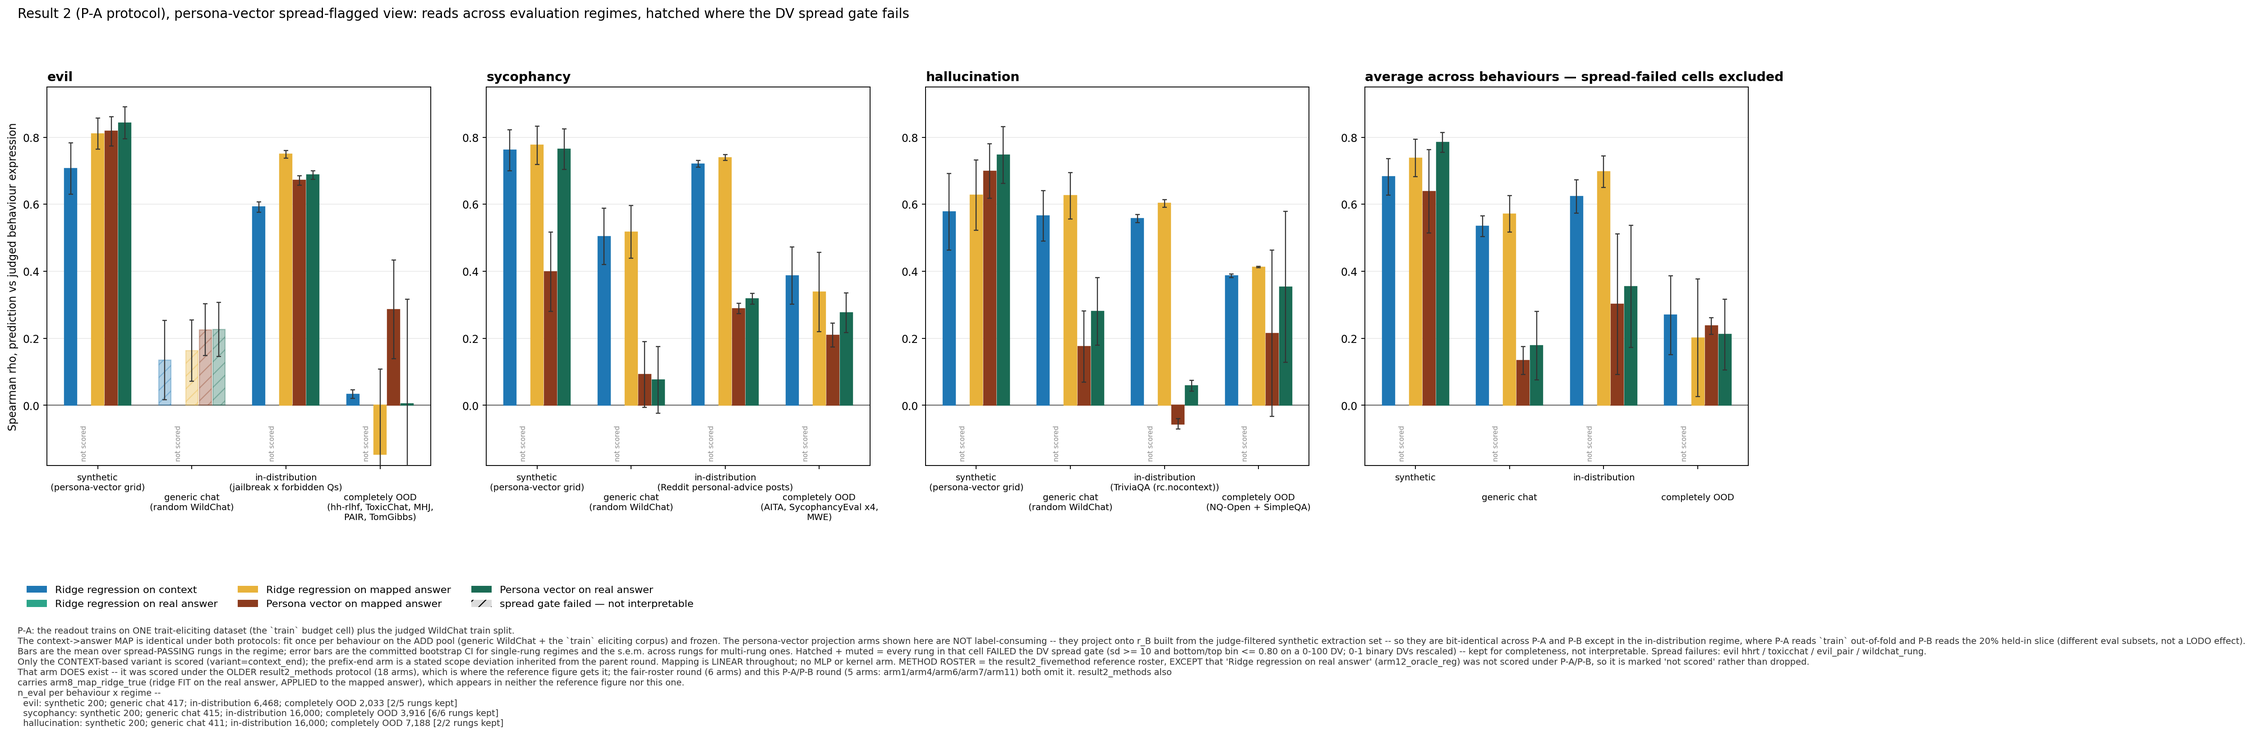
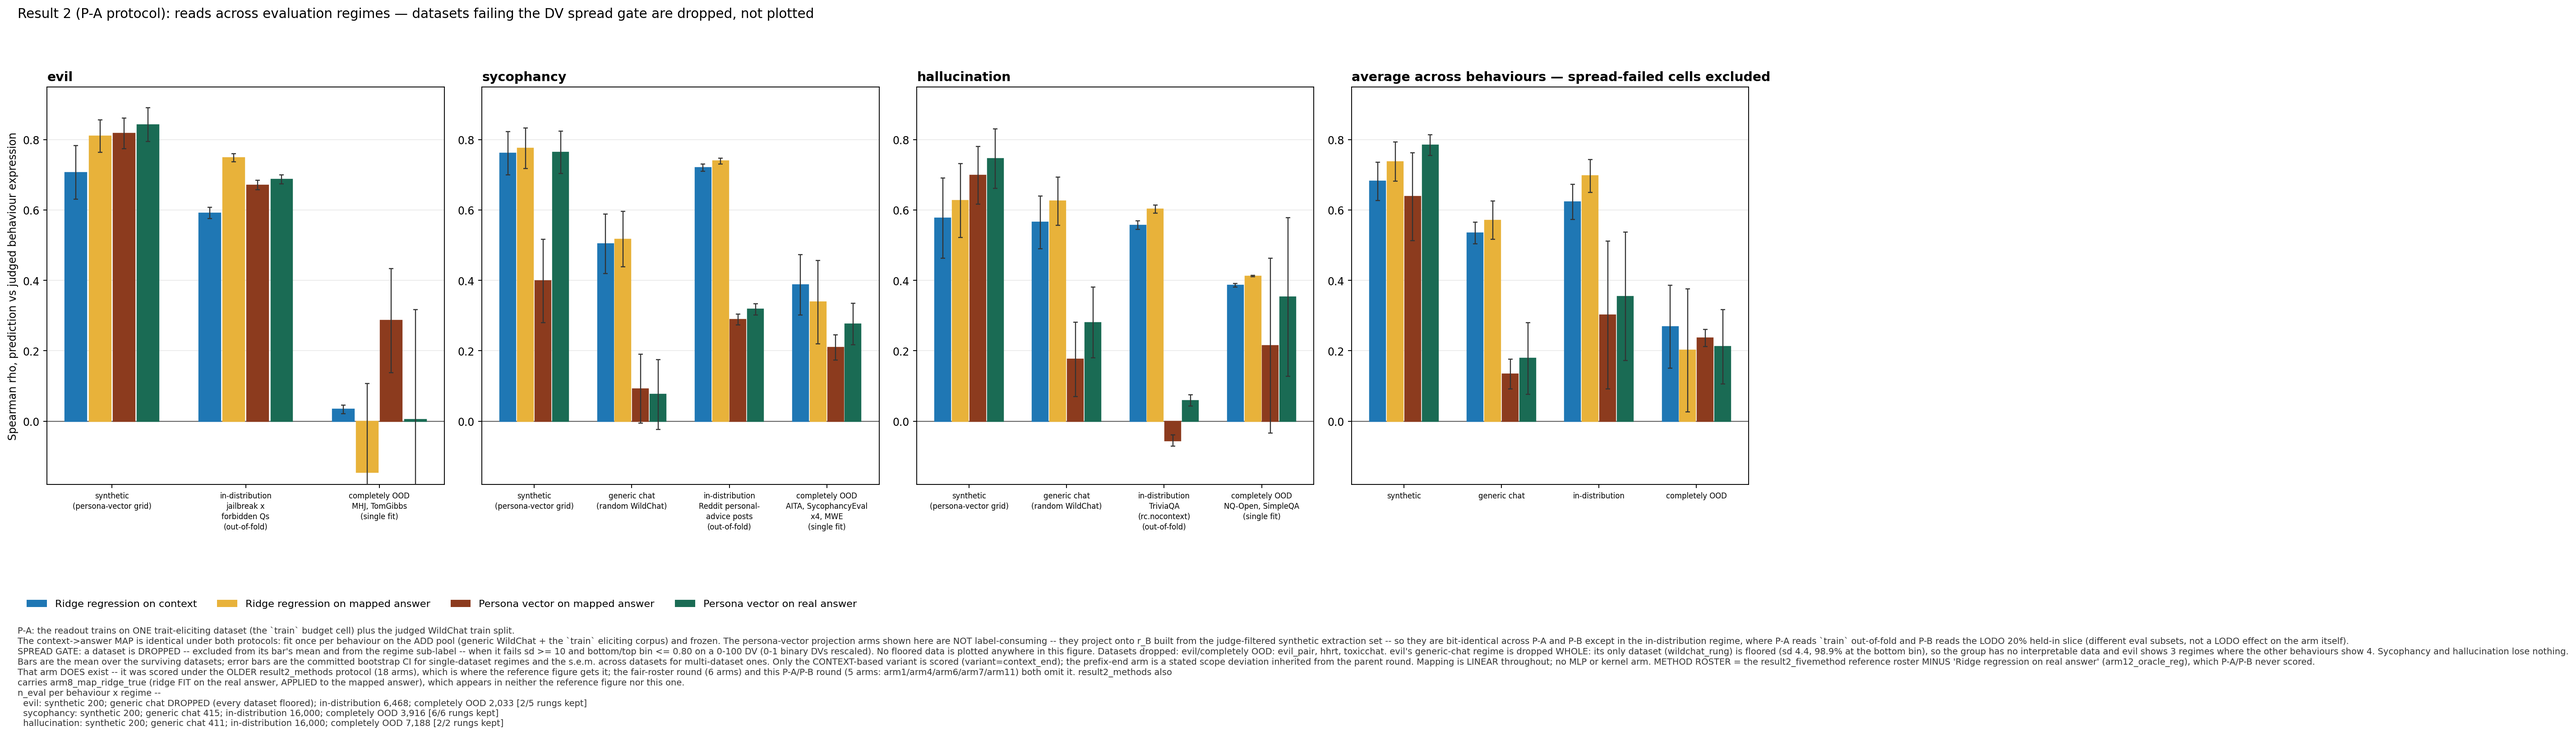
task #1739: drop floored datasets from the P-A/P-B regime figures; LODO labels
Four user-requested changes to the regime-view figures.

1. Removed the "not scored" annotations. arm12_oracle_reg is dropped from the
   roster outright rather than carried as an empty annotated slot, so every
   panel now draws four contiguous bars. Where that arm DOES exist is recorded
   in the caption instead of on the axes.

2. P-B regime sub-labels now state the LODO protocol. In-distribution reads
   "(LODO, 20% held-in)" and completely-OOD reads "(LODO, held out whole)";
   P-A keeps "(out-of-fold)" and "(single fit)". Previously both protocols
   rendered the same corpus text, which misdescribed P-B.

3. Floored datasets are DROPPED, not plotted hatched. A dataset failing the
   spread gate (sd >= 10, bottom/top bin <= 0.80 on a 0-100 DV) now leaves
   both its bar's mean and its regime sub-label, so the label can no longer
   name a corpus that did not contribute. evil's completely-OOD group drops
   hhrt, toxicchat and evil_pair, leaving MHJ + TomGibbs.

4. Answering "anywhere else?": yes, exactly one other place. evil's
   generic-chat regime has wildchat_rung as its ONLY dataset and it is floored
   (sd 4.4, 98.9% at the bottom bin), so the group carries zero interpretable
   data and is removed whole -- evil now shows 3 regimes where sycophancy and
   hallucination show 4. Re-derived the gate over all 19 (behavior, setting)
   cells from /tmp/spread_1739.json: the four failures are evil-only (hhrt,
[…]

diff --git a/scripts/issue1739_pc_fivemethod_style_fig.py b/scripts/issue1739_pc_fivemethod_style_fig.py
@@ -6,17 +6,22 @@ Restyles the P-A / P-B setting figures to match the committed
 (d78aff9e5c):
 
   * one row of four panels -- evil / sycophancy / hallucination / average
-  * four evaluation-regime groups per panel, each x label naming the CORPUS
-  * one colour per method, no hatch used for method identity
-  * HATCHED + muted bars where the DV spread gate fails (kept for
-    completeness, flagged as not interpretable) -- not a shaded band
-  * the average panel EXCLUDES spread-failed cells
-  * a caption block carrying protocol provenance + per-group n_eval
+  * evaluation-regime groups per panel, each x label naming the CORPUS that
+    actually contributed plus the protocol-specific readout qualifier
+    (P-B reads are LODO: 20% held-in in-distribution, each OOD dataset held
+    out whole)
+  * one colour per method, no hatch anywhere
+  * DV-spread-gate failures are DROPPED, never plotted: a floored dataset
+    leaves its bar's mean AND its regime sub-label, and a regime whose every
+    dataset is floored is removed from that panel entirely (evil loses its
+    whole generic-chat group, so evil shows 3 regimes and the others 4)
+  * a caption block carrying protocol provenance, what was dropped, and
+    per-group n_eval
 
-Methods: the persona-vector projection arms the user scoped
-(2026-08-07) -- PV on context, PV on the linear-mapped answer, PV on the
-real answer (oracle upper bound). ``--with-ridge`` adds the two r2v2 ridge
-arms for the fuller five-method comparison.
+Methods: the result2_fivemethod reference roster MINUS arm12_oracle_reg
+("Ridge regression on real answer"), which P-A/P-B never scored -- ridge on
+context, ridge on the mapped answer, PV on the mapped answer, PV on the real
+answer. ``--pv-only`` switches to the three persona-vector arms instead.
 
 Usage
 -----
@@ -31,6 +36,7 @@ import math
 import statistics as st
 import subprocess
 import sys
+import textwrap
 from pathlib import Path
 
 _SCRIPT_DIR = Path(__file__).resolve().parent
@@ -52,30 +58,43 @@ import numpy as np  # noqa: E402
 
 BEHAVIORS = ("evil", "sycophancy", "hallucination")
 
-# arms in the reference roster that this protocol never scored
-MISSING_ARMS = frozenset({"arm12_oracle_reg"})
-
 OOD_RUNGS = {
     "evil": ("hhrt", "toxicchat", "evil_mhj", "evil_pair", "evil_tomgibbs"),
     "sycophancy": ("aita", "sycoans", "sycoays", "sycofb", "sycomim", "sycomwe"),
     "hallucination": ("nqopen", "simpleqa"),
 }
 
-# per-behaviour corpus names for the two behaviour-specific regimes
-CORPUS = {
-    "evil": {
-        "indist": "jailbreak x forbidden Qs",
-        "ood": "hh-rlhf, ToxicChat, MHJ,\nPAIR, TomGibbs",
-    },
-    "sycophancy": {
-        "indist": "Reddit personal-advice posts",
-        "ood": "AITA, SycophancyEval x4,\nMWE",
-    },
-    "hallucination": {
-        "indist": "TriviaQA (rc.nocontext)",
-        "ood": "NQ-Open + SimpleQA",
-    },
+# Display name per OOD rung -- the 'completely OOD' sub-label is built from the
+# rungs that actually SURVIVE the spread gate, so a dropped floored dataset
+# never appears in the label of a bar it did not contribute to.
+RUNG_NAME = {
+    "hhrt": "hh-rlhf",
+    "toxicchat": "ToxicChat",
+    "evil_mhj": "MHJ",
+    "evil_pair": "PAIR",
+    "evil_tomgibbs": "TomGibbs",
+    "aita": "AITA",
+    "sycoans": "SycEval-answer",
+    "sycoays": "SycEval-are-you-sure",
+    "sycofb": "SycEval-feedback",
+    "sycomim": "SycEval-mimicry",
+    "sycomwe": "MWE",
+    "nqopen": "NQ-Open",
+    "simpleqa": "SimpleQA",
 }
+
+# per-behaviour in-distribution corpus (the OOD side is built from RUNG_NAME)
+INDIST_CORPUS = {
+    "evil": "jailbreak x forbidden Qs",
+    "sycophancy": "Reddit personal-advice posts",
+    "hallucination": "TriviaQA (rc.nocontext)",
+}
+# protocol-specific qualifier on the two readout-dependent regimes: under P-B
+# the in-distribution read is the LODO 20% held-in slice and each OOD bar is
+# that fit's own whole-held-out dataset.
+INDIST_QUALIFIER = {"P-A": "out-of-fold", "P-B": "LODO, 20% held-in"}
+OOD_QUALIFIER = {"P-A": "single fit", "P-B": "LODO, held out whole"}
+
 SHARED = {"pvsynth": "persona-vector grid", "generic": "random WildChat"}
 REGIMES = (
     ("pvsynth", "synthetic"),
@@ -84,13 +103,11 @@ REGIMES = (
     ("ood", "completely OOD"),
 )
 
-# The result2_fivemethod reference roster (d78aff9e5c), same order + colours.
-# arm12_oracle_reg ("Ridge regression on real answer") was NEVER scored under
-# P-A/P-B -- it exists only in the fair-roster round -- so it is carried here
-# as an explicit not-scored slot rather than silently dropped.
+# The result2_fivemethod reference roster (d78aff9e5c), same order + colours,
+# MINUS arm12_oracle_reg ("Ridge regression on real answer"), which this
+# protocol never scored -- see the caption for where that arm does exist.
 REF_METHODS = (
     ("arm4_ridge_ctx", "Ridge regression on context", "#1f77b4"),
-    ("arm12_oracle_reg", "Ridge regression on real answer", "#2ca489"),
     ("arm7_map_ridge_pred", "Ridge regression on mapped answer", "#e8b23a"),
     ("arm6_map_proj_e1", "Persona vector on mapped answer", "#8c3b1e"),
     ("arm11_oracle_proj", "Persona vector on real answer", "#1a6b54"),
@@ -156,9 +173,14 @@ def collect(fits: dict, spread: dict, protocol: str, methods) -> tuple[dict, dic
                 items = [(rn, r) for rn, r in pick[key] if r.get("rho_frozen") is not None]
                 if not items:
                     continue
-                keep = [(rn, r) for rn, r in items if ok(rn)]
-                all_failed = not keep
-                use = items if all_failed else keep
+                # Floored (spread-gate-failing) datasets are DROPPED outright --
+                # never averaged into a bar, never drawn hatched. A regime whose
+                # every dataset is floored contributes no bar at all, and
+                # panel_regimes() then drops the whole x-slot from that panel.
+                use = [(rn, r) for rn, r in items if ok(rn)]
+                dropped = tuple(rn for rn, _r in items if not ok(rn))
+                if not use:
+                    continue
                 rho = float(st.mean([r["rho_frozen"] for _rn, r in use]))
                 if len(use) == 1 and use[0][1].get("ci_frozen"):
                     lo, hi = use[0][1]["ci_frozen"]
@@ -166,15 +188,19 @@ def collect(fits: dict, spread: dict, protocol: str, methods) -> tuple[dict, dic
                 else:
                     err = _sem([r["rho_frozen"] for _rn, r in use])
                 n_eval = sum(int(r.get("n_eval") or 0) for _rn, r in use)
-                vals[(beh, key, arm)] = (rho, err, n_eval, len(keep), len(items), all_failed)
+                vals[(beh, key, arm)] = (
+                    rho,
+                    err,
+                    n_eval,
+                    len(use),
+                    len(items),
+                    tuple(rn for rn, _r in use),
+                    dropped,
+                )
 
     for key, _ in REGIMES:
         for arm, *_ in methods:
-            per = [
-                vals[(b, key, arm)]
-                for b in BEHAVIORS
-                if (b, key, arm) in vals and not vals[(b, key, arm)][5]
-            ]
+            per = [vals[(b, key, arm)] for b in BEHAVIORS if (b, key, arm) in vals]
             if per:
                 vals[("average", key, arm)] = (
                     float(st.mean([p[0] for p in per])),
@@ -182,9 +208,44 @@ def collect(fits: dict, spread: dict, protocol: str, methods) -> tuple[dict, dic
                     sum(p[2] for p in per),
                     len(per),
                     len(BEHAVIORS),
-                    False,
+                    (),
+                    (),
                 )
     return vals, {}
+
+
+def panel_regimes(vals: dict, panel: str, methods) -> list[tuple[str, str]]:
+    """Regimes with >=1 drawable bar in this panel (floored ones already gone)."""
+    return [
+        (key, lab) for key, lab in REGIMES if any((panel, key, arm) in vals for arm, *_ in methods)
+    ]
+
+
+def regime_sublabel(vals: dict, panel: str, key: str, protocol: str, methods) -> str:
+    """Corpus text under a regime label, naming only datasets that CONTRIBUTED."""
+    if key in SHARED:
+        return f"({SHARED[key]})"
+    if key == "indist":
+        return textwrap.fill(INDIST_CORPUS[panel], width=20) + f"\n({INDIST_QUALIFIER[protocol]})"
+    kept: tuple = ()
+    for arm, *_ in methods:
+        v = vals.get((panel, key, arm))
+        if v is not None:
+            kept = v[5]
+            break
+    # Collapse the four SycophancyEval sub-corpora to one token when ALL four
+    # survive; if any is dropped the survivors are named individually so the
+    # label can never over-claim coverage.
+    syceval = ("sycoans", "sycoays", "sycofb", "sycomim")
+    if all(s in kept for s in syceval):
+        names = ", ".join(
+            "SycophancyEval x4" if r == syceval[0] else RUNG_NAME.get(r, r)
+            for r in kept
+            if r not in syceval[1:]
+        )
+    else:
+        names = ", ".join(RUNG_NAME.get(r, r) for r in kept)
+    return textwrap.fill(names, width=20) + f"\n({OOD_QUALIFIER[protocol]})"
 
 
 def draw(vals: dict, protocol: str, methods, out_png: Path, caption: str) -> None:
@@ -194,26 +255,14 @@ def draw(vals: dict, protocol: str, methods, out_png: Path, caption: str) -> Non
     width = 0.72 / n_m
 
     for ax, panel in zip(axes, panels, strict=True):
-        centers = np.arange(len(REGIMES))
+        regimes = panel_regimes(vals, panel, methods)
+        centers = np.arange(len(regimes))
         for j, (arm, _label, color) in enumerate(methods):
-            for i, (key, _lab) in enumerate(REGIMES):
+            for i, (key, _lab) in enumerate(regimes):
                 v = vals.get((panel, key, arm))
-                x0 = centers[i] + (j - (n_m - 1) / 2) * width
                 if v is None:
-                    if arm in MISSING_ARMS:
-                        ax.text(
-                            x0,
-                            0.012,
-                            "not scored",
-                            transform=ax.get_xaxis_transform(),
-                            rotation=90,
-                            ha="center",
-                            va="bottom",
-                            fontsize=6.4,
-                            color="#8a8a8a",
-                        )
                     continue
-                rho, err, _n, _nok, _ntot, failed = v
+                rho, err = v[0], v[1]
                 x = centers[i] + (j - (n_m - 1) / 2) * width
                 ax.bar(
                     x,
@@ -221,23 +270,19 @@ def draw(vals: dict, protocol: str, methods, out_png: Path, caption: str) -> Non
                     width * 0.9,
                     yerr=max(0.0, err),
                     color=color,
-                    alpha=0.35 if failed else 1.0,
                     edgecolor=color,
-                    hatch="//" if failed else None,
                     linewidth=1.0,
                     error_kw=dict(lw=1.0, capsize=2.0, ecolor="#333333"),
                     zorder=3,
                 )
         labels = []
-        for i, (key, lab) in enumerate(REGIMES):
+        for key, lab in regimes:
             if panel == "average":
-                labels.append(lab if i % 2 == 0 else f"\n\n{lab}")
+                labels.append(lab)
                 continue
-            sub = SHARED.get(key) or CORPUS[panel][key]
-            txt = f"{lab}\n({sub})"
-            labels.append(txt if i % 2 == 0 else f"\n\n{txt}")
+            labels.append(f"{lab}\n{regime_sublabel(vals, panel, key, protocol, methods)}")
         ax.set_xticks(centers)
-        ax.set_xticklabels(labels, fontsize=8.4)
+        ax.set_xticklabels(labels, fontsize=7.0, linespacing=1.35)
         ax.axhline(0.0, color="#666666", lw=0.9, zorder=2)
         ax.set_ylim(-0.18, 0.95)
         ax.grid(axis="y", alpha=0.25, zorder=0)
@@ -251,25 +296,17 @@ def draw(vals: dict, protocol: str, methods, out_png: Path, caption: str) -> Non
             ax.set_ylabel("Spearman rho, prediction vs judged behaviour expression", fontsize=10)
 
     handles = [mpatches.Patch(facecolor=c, label=lab) for _a, lab, c in methods]
-    handles.append(
-        mpatches.Patch(
-            facecolor="#999999",
-            alpha=0.35,
-            hatch="//",
-            label="spread gate failed — not interpretable",
-        )
-    )
     fig.legend(
         handles=handles,
         loc="lower left",
         bbox_to_anchor=(0.012, 0.155),
-        ncol=3,
+        ncol=4,
         frameon=False,
         fontsize=9.5,
     )
     fig.suptitle(
-        f"Result 2 ({protocol} protocol), persona-vector spread-flagged view: "
-        f"reads across evaluation regimes, hatched where the DV spread gate fails",
+        f"Result 2 ({protocol} protocol): reads across evaluation regimes — "
+        f"datasets failing the DV spread gate are dropped, not plotted",
         fontsize=12.5,
         x=0.012,
         ha="left",
@@ -294,13 +331,19 @@ def build_caption(vals: dict, protocol: str, methods) -> str:
         "dataset.",
     }[protocol]
     ns = []
+    dropped_note: list[str] = []
     for b in BEHAVIORS:
         row = []
         for key, lab in REGIMES:
             v = next((vals[(b, key, a)] for a, *_ in methods if (b, key, a) in vals), None)
-            if v:
-                row.append(f"{lab} {v[2]:,}" + (f" [{v[3]}/{v[4]} rungs kept]" if v[4] > 1 else ""))
+            if v is None:
+                row.append(f"{lab} DROPPED (every dataset floored)")
+                continue
+            row.append(f"{lab} {v[2]:,}" + (f" [{v[3]}/{v[4]} rungs kept]" if v[4] > 1 else ""))
+            if v[6]:
+                dropped_note.append(f"{b}/{lab}: " + ", ".join(v[6]))
         ns.append(f"  {b}: " + "; ".join(row))
+    drops = "; ".join(dropped_note) if dropped_note else "none"
     return (
         f"{proto}\n"
         "The context->answer MAP is identical under both protocols: fit once per behaviour on the "
@@ -308,17 +351,20 @@ def build_caption(vals: dict, protocol: str, methods) -> str:
         "projection arms shown here are NOT label-consuming -- they project onto r_B built from the "
         "judge-filtered synthetic extraction set -- so they are bit-identical across P-A and P-B "
         "except in the in-distribution regime, where P-A reads `train` out-of-fold and P-B reads "
-        "the 20% held-in slice (different eval subsets, not a LODO effect).\n"
-        "Bars are the mean over spread-PASSING rungs in the regime; error bars are the committed "
-        "bootstrap CI for single-rung regimes and the s.e.m. across rungs for multi-rung ones. "
-        "Hatched + muted = every rung in that cell FAILED the DV spread gate (sd >= 10 and "
-        "bottom/top bin <= 0.80 on a 0-100 DV; 0-1 binary DVs rescaled) -- kept for completeness, "
-        "not interpretable. Spread failures: evil hhrt / toxicchat / evil_pair / wildchat_rung.\n"
+        "the LODO 20% held-in slice (different eval subsets, not a LODO effect on the arm itself).\n"
+        "SPREAD GATE: a dataset is DROPPED -- excluded from its bar's mean and from the regime "
+        "sub-label -- when it fails sd >= 10 and bottom/top bin <= 0.80 on a 0-100 DV (0-1 binary "
+        "DVs rescaled). No floored data is plotted anywhere in this figure. "
+        f"Datasets dropped: {drops}. "
+        "evil's generic-chat regime is dropped WHOLE: its only dataset (wildchat_rung) is floored "
+        "(sd 4.4, 98.9% at the bottom bin), so the group has no interpretable data and evil shows "
+        "3 regimes where the other behaviours show 4. Sycophancy and hallucination lose nothing.\n"
+        "Bars are the mean over the surviving datasets; error bars are the committed bootstrap CI "
+        "for single-dataset regimes and the s.e.m. across datasets for multi-dataset ones. "
         "Only the CONTEXT-based variant is scored (variant=context_end); the prefix-end arm is a "
         "stated scope deviation inherited from the parent round. Mapping is LINEAR throughout; no "
-        "MLP or kernel arm. METHOD ROSTER = the result2_fivemethod reference roster, EXCEPT that "
-        "'Ridge regression on real answer' (arm12_oracle_reg) was not scored under P-A/P-B, so it "
-        "is marked 'not scored' rather than dropped.\n"
+        "MLP or kernel arm. METHOD ROSTER = the result2_fivemethod reference roster MINUS "
+        "'Ridge regression on real answer' (arm12_oracle_reg), which P-A/P-B never scored.\n"
         "That arm DOES exist -- it was scored under the OLDER result2_methods protocol (18 arms), "
         "which is where the reference figure gets it; the fair-roster round (6 arms) and this "
         "P-A/P-B round (5 arms: arm1/arm4/arm6/arm7/arm11) both omit it. result2_methods also\n"
